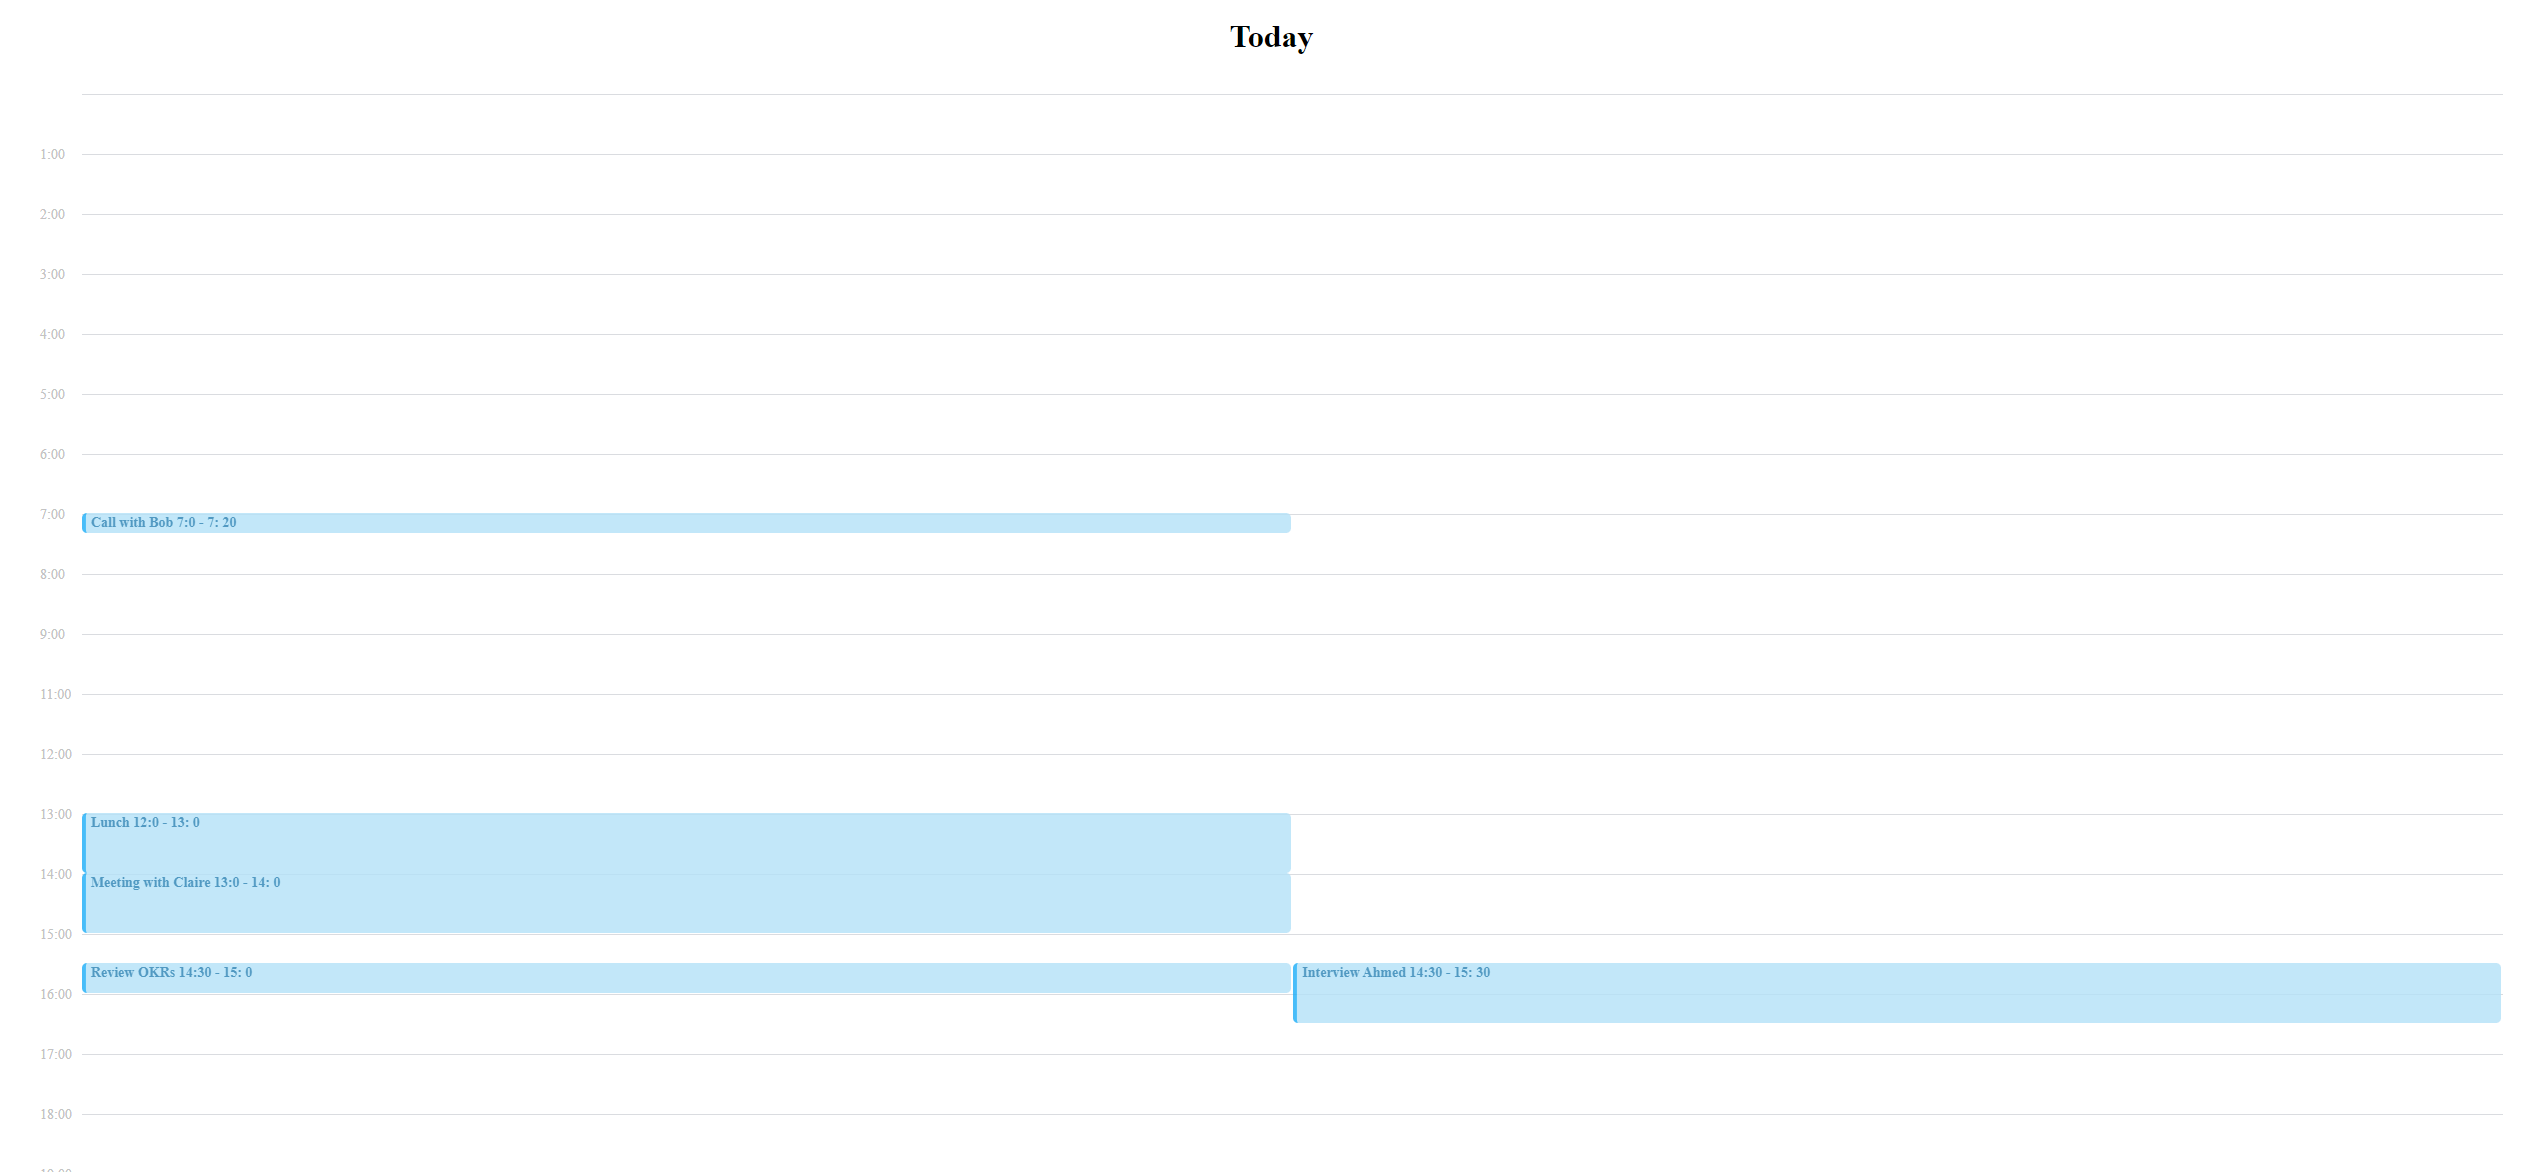
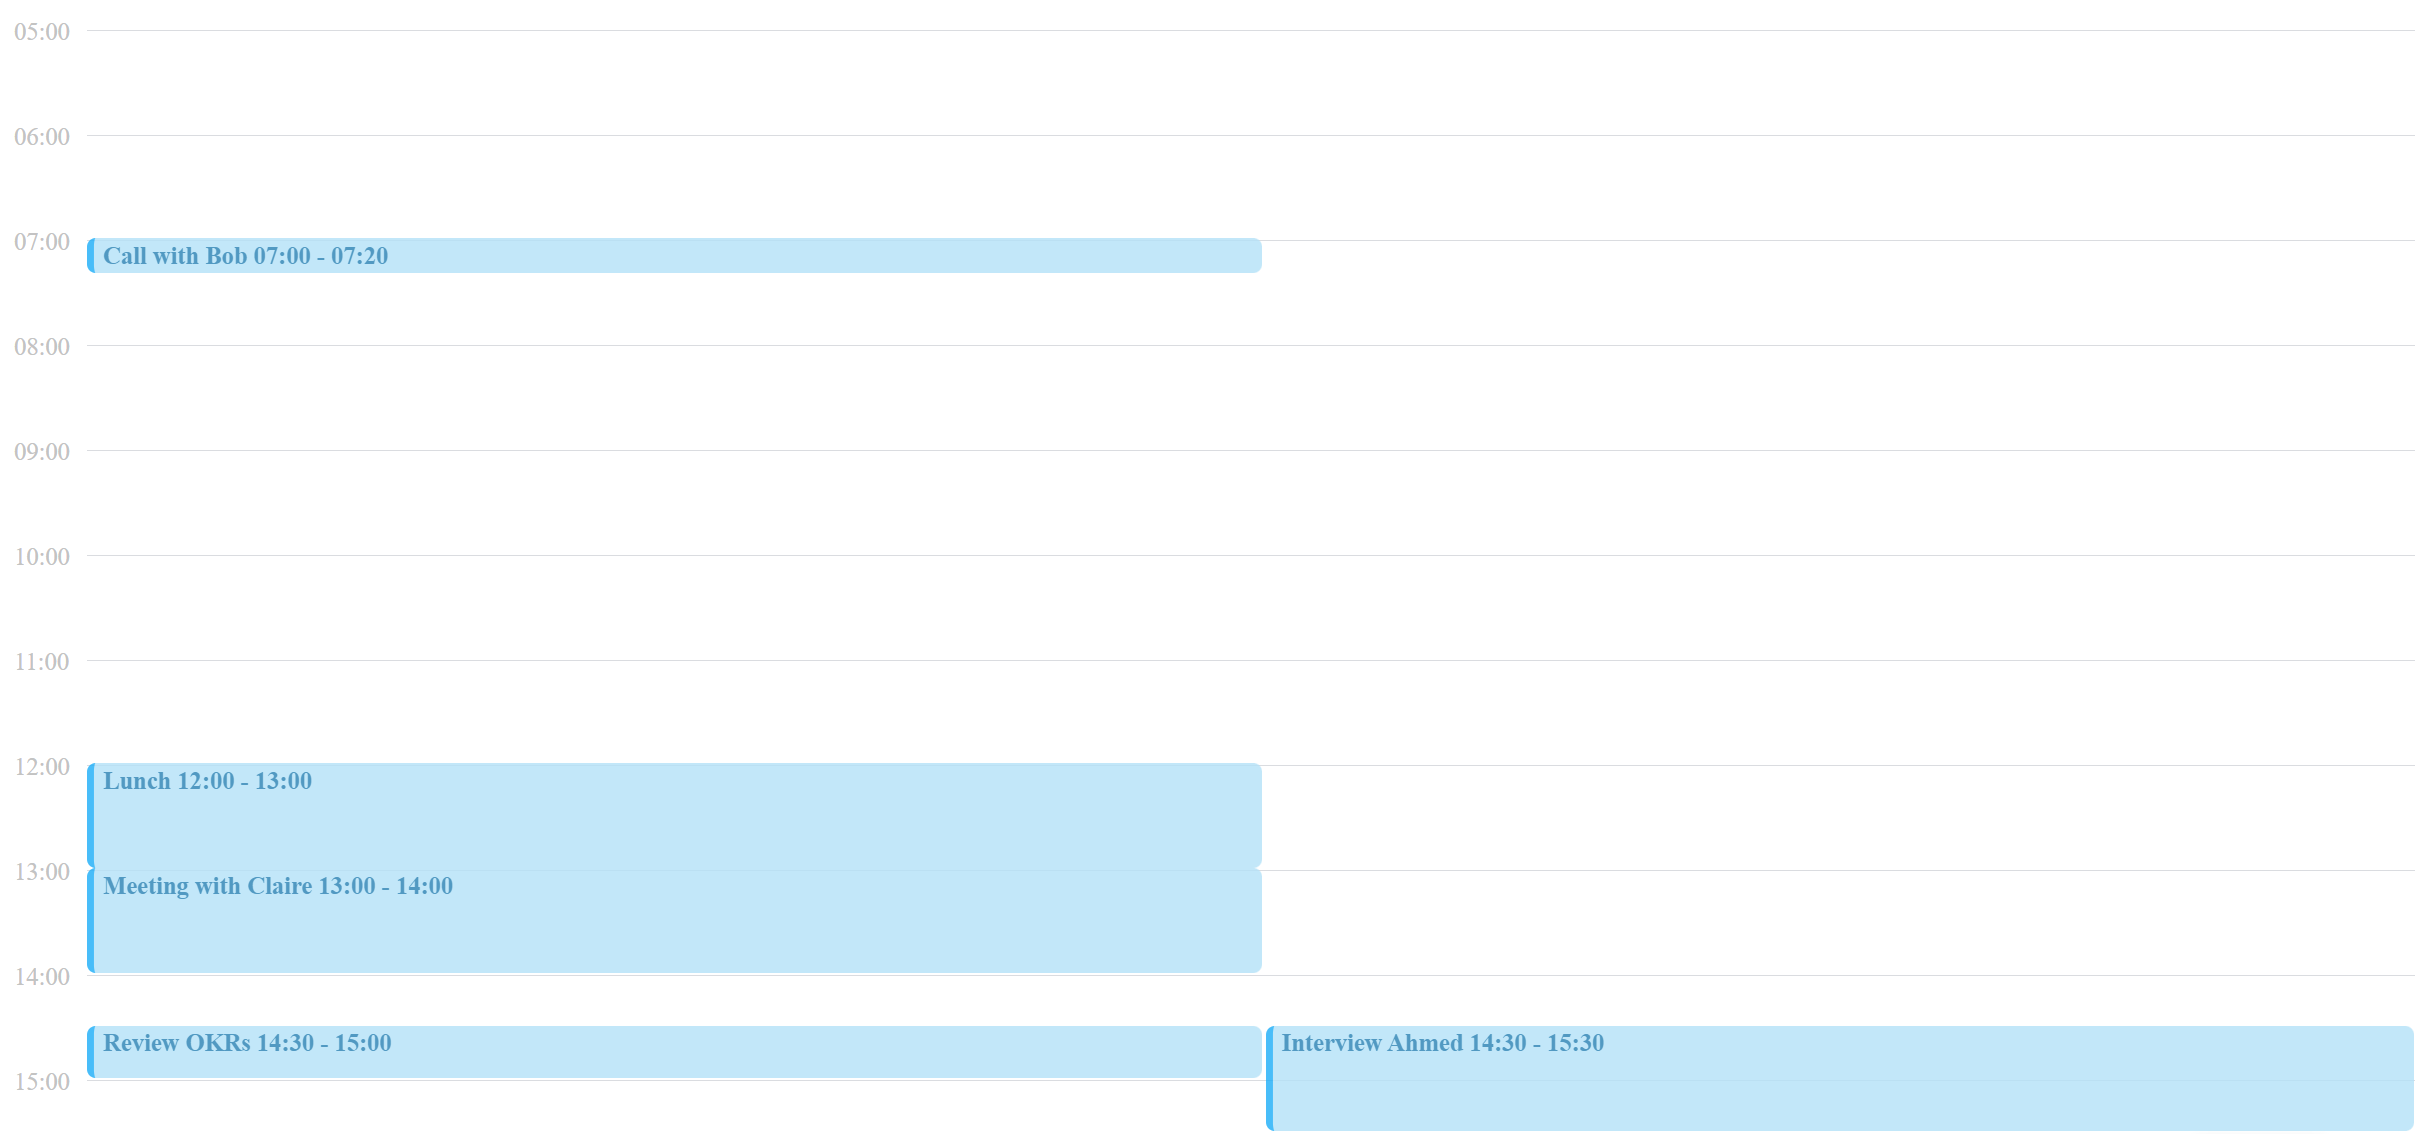
Final Cleanup

diff --git a/frontend-test-main/components/DailyCalendar.tsx b/frontend-test-main/components/DailyCalendar.tsx
@@ -18,15 +18,16 @@ export const DailyCalendar = ({events}: DailyCalendarProps) => {
       <div className={styles.calendar}>
         <div className={styles.timeline}>
           <div className={styles.timeMarker}></div>
-          <div className={styles.timeMarker}>1:00</div>
-          <div className={styles.timeMarker}>2:00</div>
-          <div className={styles.timeMarker}>3:00</div>
-          <div className={styles.timeMarker}>4:00</div>
-          <div className={styles.timeMarker}>5:00</div>
-          <div className={styles.timeMarker}>6:00</div>
-          <div className={styles.timeMarker}>7:00</div>
-          <div className={styles.timeMarker}>8:00</div>
-          <div className={styles.timeMarker}>9:00</div>
+          <div className={styles.timeMarker}>01:00</div>
+          <div className={styles.timeMarker}>02:00</div>
+          <div className={styles.timeMarker}>03:00</div>
+          <div className={styles.timeMarker}>04:00</div>
+          <div className={styles.timeMarker}>05:00</div>
+          <div className={styles.timeMarker}>06:00</div>
+          <div className={styles.timeMarker}>07:00</div>
+          <div className={styles.timeMarker}>08:00</div>
+          <div className={styles.timeMarker}>09:00</div>
+          <div className={styles.timeMarker}>10:00</div>
           <div className={styles.timeMarker}>11:00</div>
           <div className={styles.timeMarker}>12:00</div>
           <div className={styles.timeMarker}>13:00</div>
@@ -40,7 +41,6 @@ export const DailyCalendar = ({events}: DailyCalendarProps) => {
           <div className={styles.timeMarker}>21:00</div>
           <div className={styles.timeMarker}>22:00</div>
           <div className={styles.timeMarker}>23:00</div>
-          <div className={styles.timeMarker}></div>
         </div>
         <div className={styles.eventsGrid}>
           <div>

diff --git a/frontend-test-main/components/Event.tsx b/frontend-test-main/components/Event.tsx
@@ -6,29 +6,34 @@ type EventProps = {
   start: number,
   end: number
 }
-const getStyle = (start: number, end: number) => {
 
+const addLeadingZero = (number: number) => number > 9 ? number : "0" + number;
 
-  return {
-    ["grid-row-start"]: start,
-    ["grid-row-end"]: end
-  } as React.CSSProperties
+const formatTime = (startHour: number, startMinutes: number, endHour: number, endMinutes: number) => {
+  let displayStartHour = addLeadingZero(startHour);
+  let displayStartMinutes = addLeadingZero(startMinutes);
+  let displayEndHour =  addLeadingZero(endHour);
+  let displayEndMinutes = addLeadingZero(endMinutes);
+
+  return `${displayStartHour}:${displayStartMinutes} - ${displayEndHour}:${displayEndMinutes}`;
 }
 
 export const Event = ({title, start, end}: EventProps) => {
   let gridEnd = end;
-  if(end - start < 15) {
+  if (end - start < 15) {
     gridEnd = start + 15; // In order for the text to be readable we need at least 15 minutes
   }
-  const startingHour = Math.floor(start / 60);
-  const startingMinutes = start % 60;
+  const startHour = Math.floor(start / 60);
+  const startMinutes = start % 60;
 
-  const endingHour = Math.floor(end / 60);
-  const endingMinutes = end % 60;
+  const endHour = Math.floor(end / 60);
+  const endMinutes = end % 60;
 
   return (
     <div className={styles.event} style={{gridRowStart: start, gridRowEnd: gridEnd} as React.CSSProperties}>
-      <p className={styles.title}>{title} {startingHour}:{startingMinutes} - {endingHour}: {endingMinutes}</p>
+      <p className={styles.title}>
+        {title} {formatTime(startHour, startMinutes, endHour, endMinutes)}
+      </p>
     </div>
   );
 

diff --git a/frontend-test-main/WriteUp.md b/frontend-test-main/WriteUp.md
@@ -23,4 +23,4 @@ however I decided DailyCalendar is more suitable name since a few can be put nex
 ## Final Version Screenshot 
 (P.S. My screen is 32 inches so the preview doesn't look so nice when small)
 
-![FinalExample](final_example.png)
+![FinalExample](./final_example.png)
